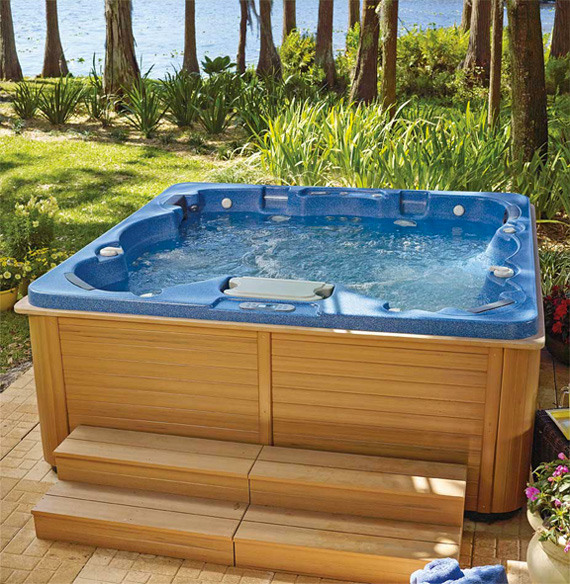
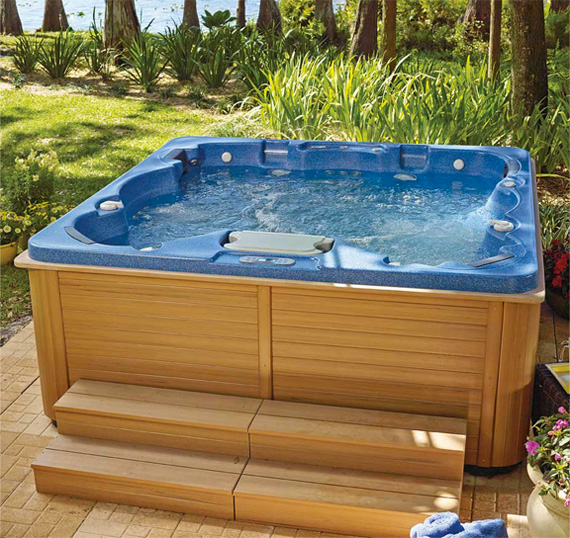
modify image for email-brochure.php

diff --git a/email-brochure.php b/email-brochure.php
@@ -362,7 +362,7 @@ style="display:none;width:0px;height:0px"></iframe>
                   <div class="slide">
 
                     <div id="slide_content">
-                      <img src="../sk/images/hot-tub.jpg" alt="ThermoSpas Hot Tub" width="570" height="584"/>
+                      <img src="../sk/images/hot-tub.jpg" alt="ThermoSpas Hot Tub" width="570" height="538"/>
                     </div>
                     <div id="subscribe_pricing" >
 
